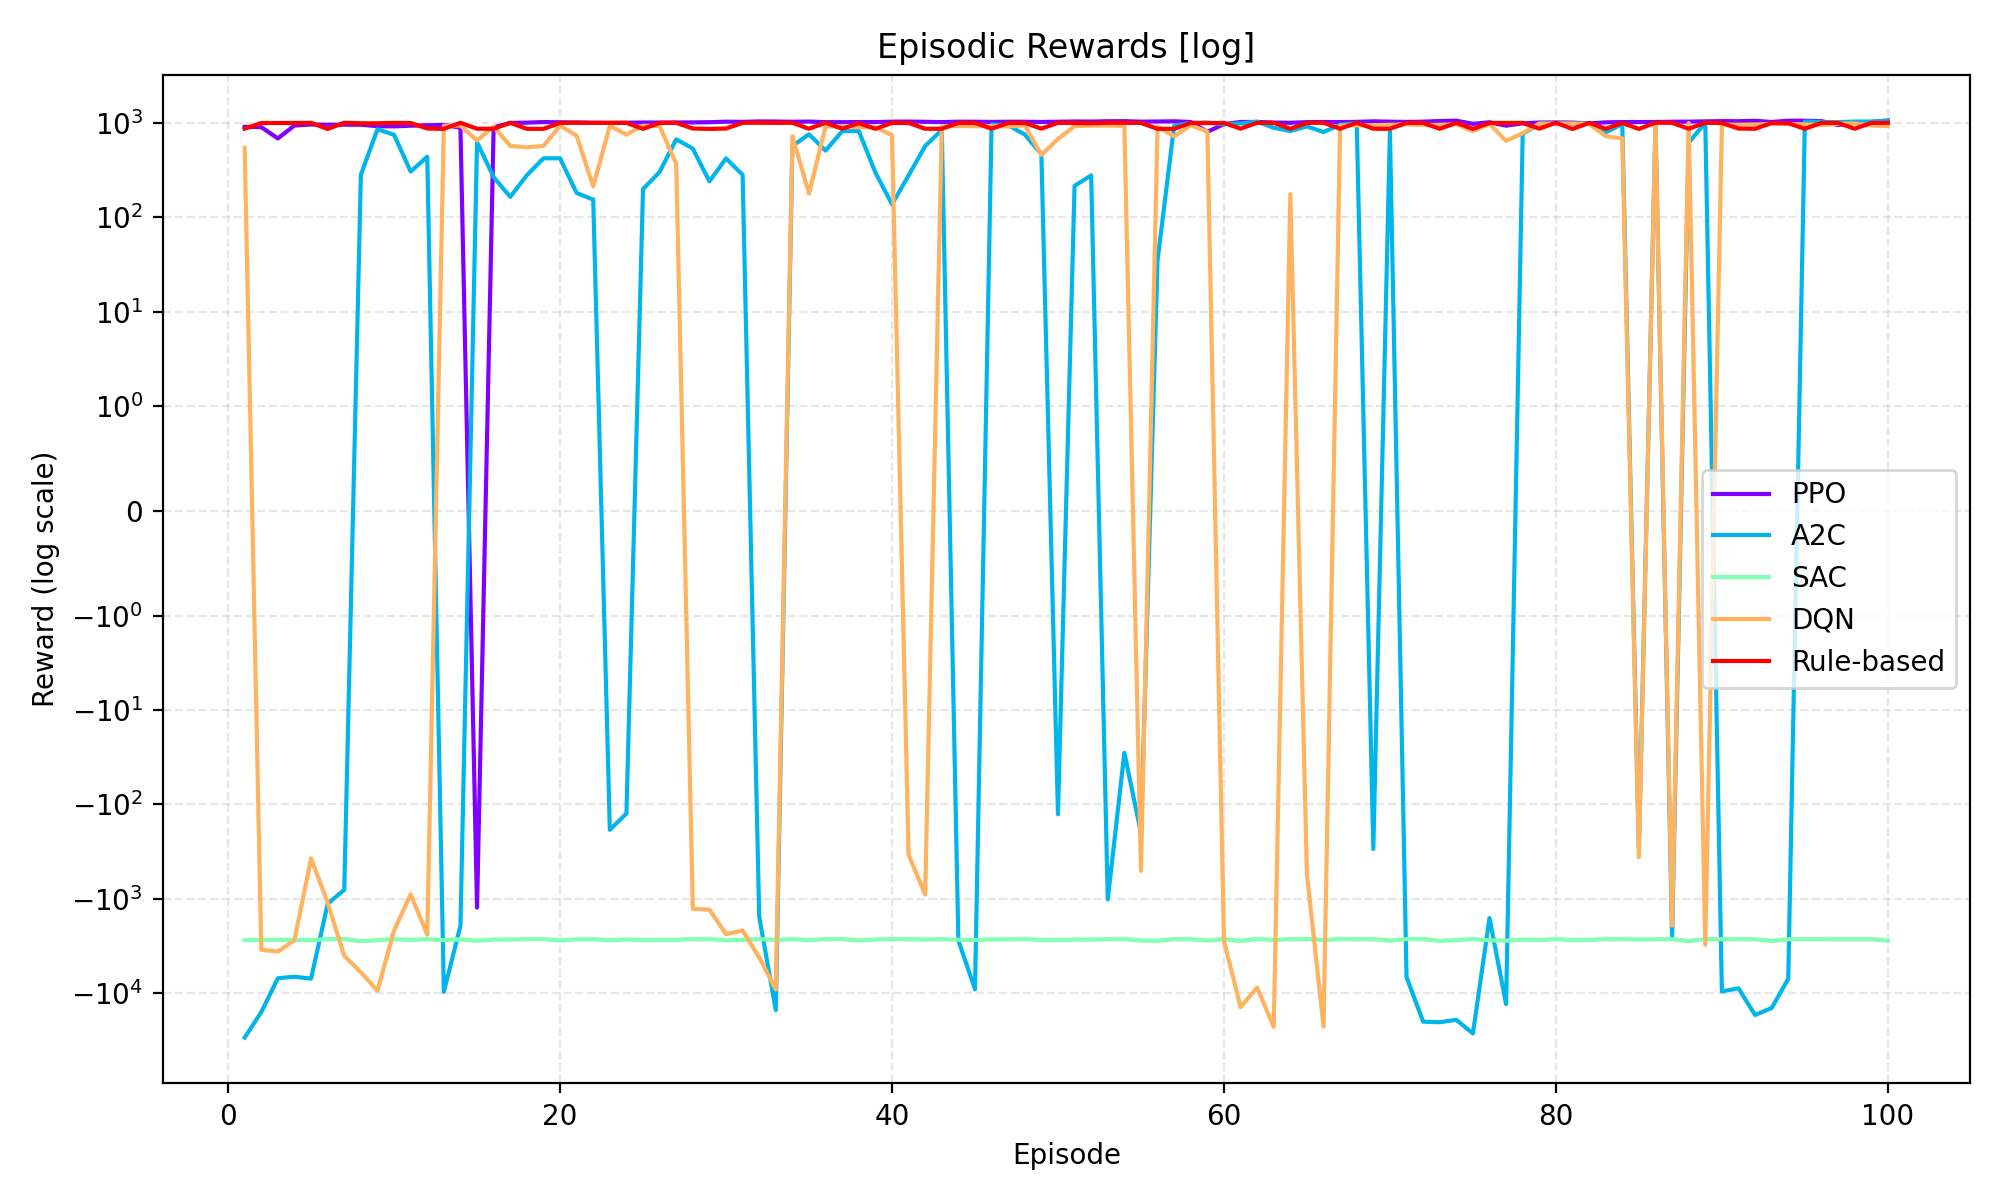
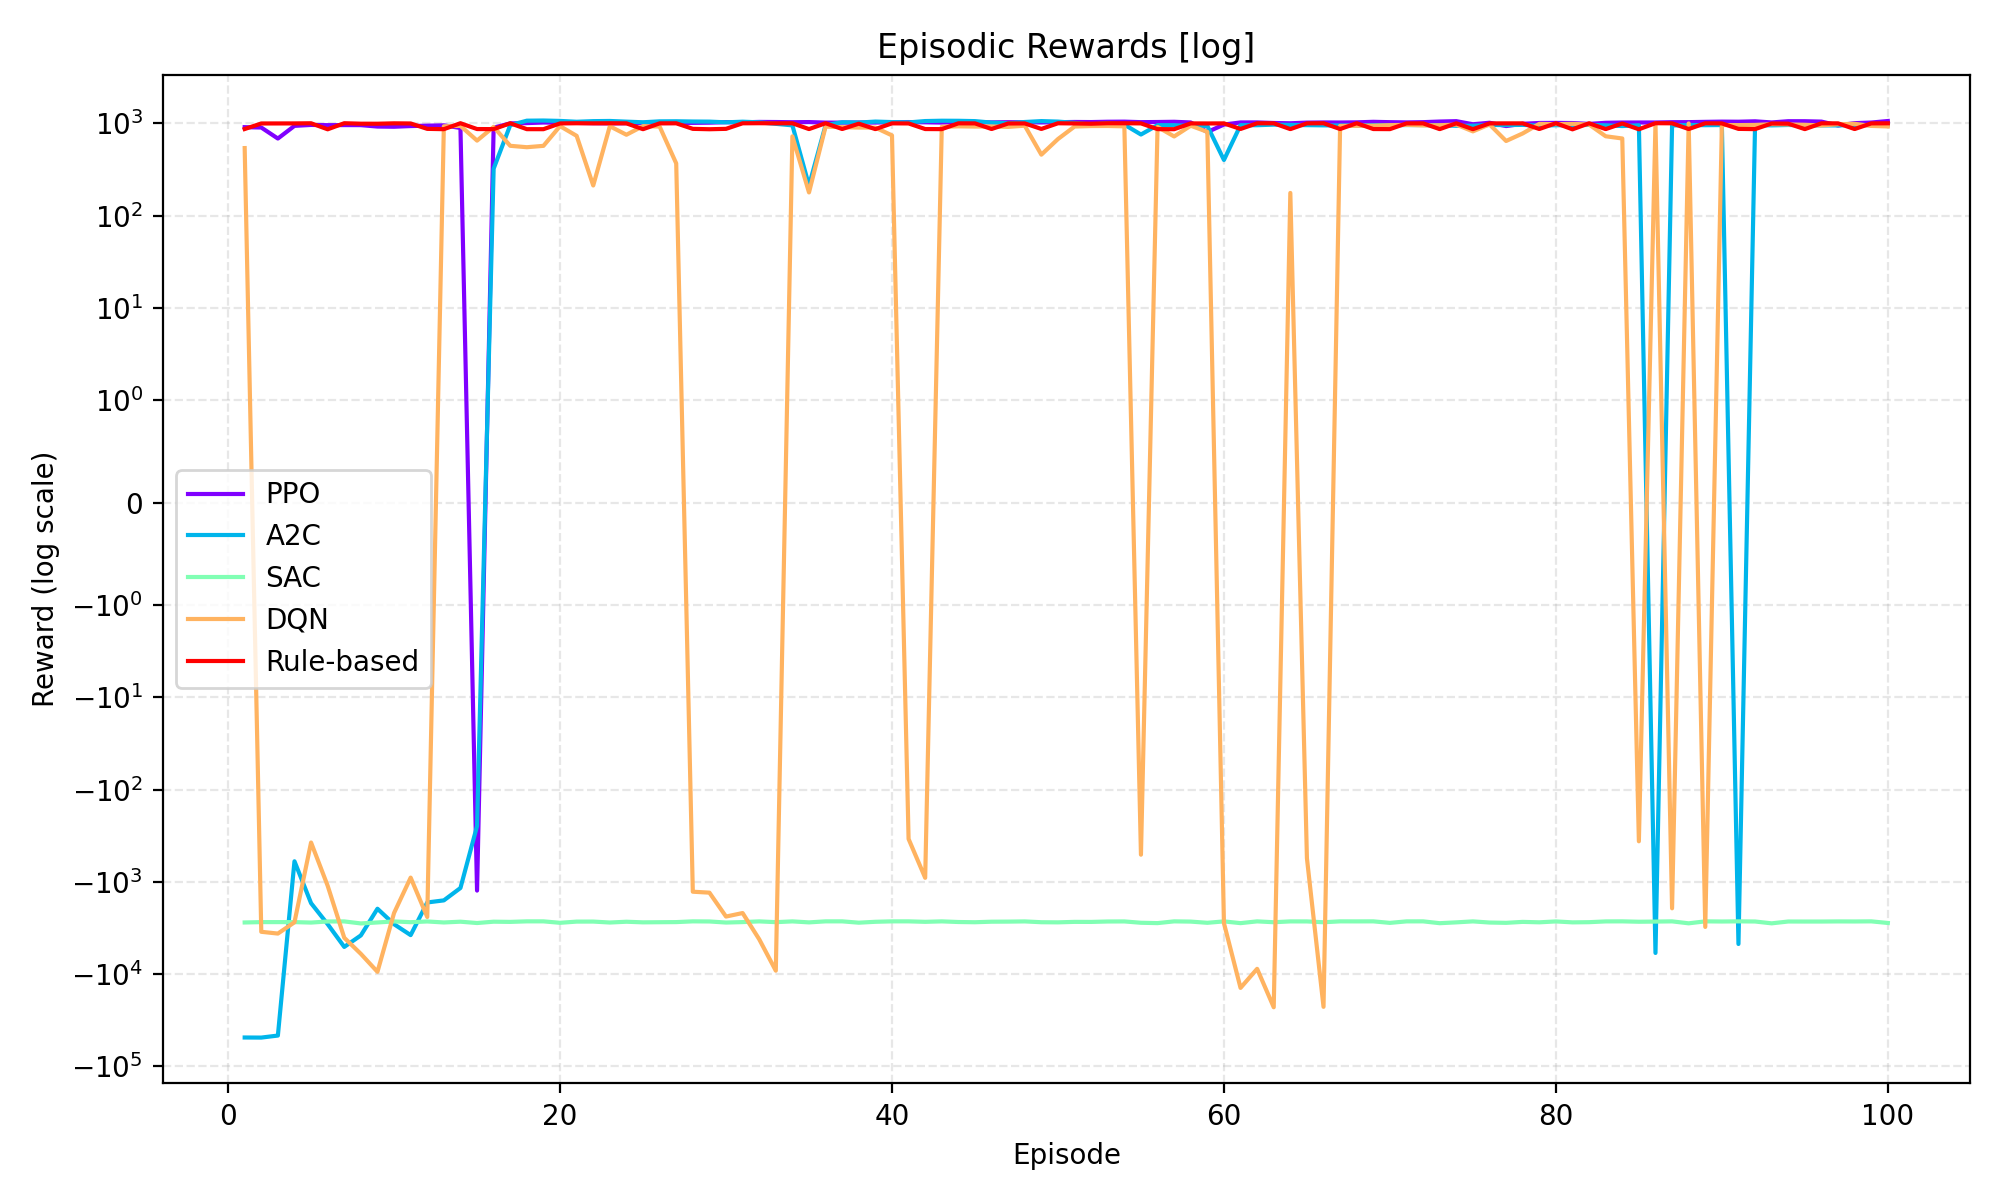
bux fix in utils.py, added comparison of rulebased rewards, fine tuning a2c n_steps

diff --git a/a2c.py b/a2c.py
@@ -49,9 +49,9 @@ class A2CAgent():
             env: gym.Env,
             actor_model: nn.Module = None,
             critic_model: nn.Module = None,
-            learning_rate: float = 1e-4,  #test with 1e-4, 3e-4, 5e-4
+            learning_rate: float = 3e-4,  #test with 1e-4, 3e-4, 5e-4
             gamma: float = 0.99,
-            n_steps: int = 50,
+            n_steps: int = 100,  #test with 20, 150, 100
             entropy_coef: float = 0.01,
             value_loss_coef: float = 0.5,
             max_grad_norm: float = 0.5
@@ -93,14 +93,14 @@ class A2CAgent():
             vec = np.array(obs, dtype=np.float32).flatten()
         return vec
 
-    def choose_action(self, state_vec):
-        """Sample an action from the actor given a flattened state vector."""
-        state = torch.tensor(state_vec, dtype=torch.float32, device=self.device).unsqueeze(0)
-        with torch.no_grad():
-            probs = self.actor_model(state)
-        dist = Categorical(probs)
-        action = dist.sample()
-        return action.item(), dist.log_prob(action), dist.entropy()
+    # def choose_action(self, state_vec):
+    #     """Sample an action from the actor given a flattened state vector."""
+    #     state = torch.tensor(state_vec, dtype=torch.float32, device=self.device).unsqueeze(0)
+    #     with torch.no_grad():
+    #         probs = self.actor_model(state)
+    #     dist = Categorical(probs)
+    #     action = dist.sample()
+    #     return action.item(), dist.log_prob(action), dist.entropy()
 
     def act(self):
         """Run one episode using the current policy."""
@@ -125,6 +125,10 @@ class A2CAgent():
             #     break
         print(f"ACT: Episode rewards breakdown {utils.format_rewards(np.sum(rewards_breakdown, axis=0))}")
         utils.plot_breakdown_cumulative(rewards_breakdown)
+        
+        np.save("./models/a2c/a2c_1_episode_rewards_breakdown.npy", rewards_breakdown)
+        print("Saved results to a2c_1_episode_rewards_breakdown.npy")
+
     def save_models(self, actor_path, critic_path):
         """
         Save actor and critic state_dicts to the given paths. Also saves an
@@ -355,14 +359,14 @@ now = datetime.now()
 version = now.strftime("%Y%m%d_%H%M%S") if USE_DATESTAMP else "v4"  #CHANGE THIS TO DESIRED VERSION STRING
 
 VERSION_NUM = f"{version}"
-episodes = 500  #CHANGE THIS TO DESIRED NUMBER OF EPISODES
+episodes = 100  #CHANGE THIS TO DESIRED NUMBER OF EPISODES
 
 # Define model save paths
-ACTOR_DIR = f"./models/a2c/a2c-v3-e500-actor.pth"
-CRITIC_DIR = f"./models/a2c/a2c-v3-e500-critic.pth"
+# ACTOR_DIR = f"./models/a2c/a2c-v3-e500-actor.pth"
+# CRITIC_DIR = f"./models/a2c/a2c-v3-e500-critic.pth"
 
-# ACTOR_DIR = f"./models/a2c/a2c-{VERSION_NUM}-e{episodes}-actor.pth"
-# CRITIC_DIR = f"./models/a2c/a2c-{VERSION_NUM}-e{episodes}-critic.pth"
+ACTOR_DIR = f"./models/a2c/a2c-{VERSION_NUM}-e{episodes}-actor.pth"
+CRITIC_DIR = f"./models/a2c/a2c-{VERSION_NUM}-e{episodes}-critic.pth"
 
 if __name__ == "__main__":
     utils.init()
@@ -390,4 +394,4 @@ if __name__ == "__main__":
         
         agent.save_models(ACTOR_DIR, CRITIC_DIR)
         #Plot rewards
-        utils.plot_rewards(rewards)
+        utils.plot_rewards(rewards,f"./models/a2c/a2c-{VERSION_NUM}.png")

diff --git a/plot_a2c_comp.py b/plot_a2c_comp.py
@@ -1,13 +1,16 @@
+PARAMETER = "n_steps"
+PARAM_VALUES = [20,150,100]
+
 import numpy as np
 import matplotlib.pyplot as plt
 
 # Load rewards from a2c training
-rewards1 = np.load("models/a2c/a2c-v1-e500-rewards.npy")
-rewards2 = np.load("models/a2c/a2c-v2-e500-rewards.npy")
-rewards3 = np.load("models/a2c/a2c-v3-e500-rewards.npy")
+rewards1 = np.load("models/a2c/a2c-v4-e100-rewards.npy")
+rewards2 = np.load("models/a2c/a2c-v5-e100-rewards.npy")
+rewards3 = np.load("models/a2c/a2c-v6-e100-rewards.npy")
 
 
-# Compute metrics over the entire reward series (no last-N/window logic)
+# Compute metrics over the entire reward series
 def compute_metrics(rewards: np.ndarray) -> dict:
 	r = np.asarray(rewards, dtype=np.float32)
 	n = r.shape[0]
@@ -17,7 +20,6 @@ def compute_metrics(rewards: np.ndarray) -> dict:
 
 	# Coefficient of variation (std / mean) and a simple stability proxy (1/std)
 	cv_overall = float(std_overall / mean_overall) if (mean_overall != 0 and not np.isnan(mean_overall)) else float("nan")
-	stability = float(1.0 / std_overall) if (std_overall != 0 and not np.isnan(std_overall)) else float("nan")
 
 	metrics = {
 		"episodes": int(n),
@@ -27,8 +29,7 @@ def compute_metrics(rewards: np.ndarray) -> dict:
 		"min": float(np.min(r)) if n > 0 else float("nan"),
 		"max": float(np.max(r)) if n > 0 else float("nan"),
 		"cumulative_reward": float(np.sum(r)) if n > 0 else float("nan"),
-		"cv_overall": cv_overall,
-		"stability": stability,
+		"cv_overall": cv_overall
 	}
 
 	return metrics
@@ -42,8 +43,7 @@ def print_metrics(name: str, m: dict):
 		f"Cum.Sum: {m['cumulative_reward']:.3f} | Min/Max: {m['min']:.3f}/{m['max']:.3f}"
 	)
 	print(
-		f"Overall -> Mean: {m['mean_overall']:.3f}, Std: {m['std_overall']:.3f}, CV: {m['cv_overall']:.3f}, "
-		f"Stability (1/std): {m['stability']:.3f}"
+		f"Overall -> Mean: {m['mean_overall']:.3f}, Std: {m['std_overall']:.3f}, CV: {m['cv_overall']:.3f} "
 	)
 	print("\n")
 
@@ -53,21 +53,22 @@ metrics1 = compute_metrics(rewards1)
 metrics2 = compute_metrics(rewards2)
 metrics3 = compute_metrics(rewards3)
 
-print_metrics("learning_rate = 1e-3", metrics1)
-print_metrics("learning_rate = 1e-4", metrics2)
-print_metrics("learning_rate = 3e-4", metrics3)
+print_metrics(f"{PARAMETER} = {PARAM_VALUES[0]}", metrics1)
+print_metrics(f"{PARAMETER} = {PARAM_VALUES[1]}", metrics2)
+print_metrics(f"{PARAMETER} = {PARAM_VALUES[2]}", metrics3)
 
 # Plot raw episode rewards
 plt.figure(figsize=(12, 6))
-plt.plot(np.cumsum(rewards1), label="learning_rate = 1e-3", linewidth=2)
-plt.plot(np.cumsum(rewards2), label="learning_rate = 1e-4", linewidth=2)
-plt.plot(np.cumsum(rewards3), label="learning_rate = 3e-4", linewidth=2)
+plt.plot(np.cumsum(rewards1), label=f"{PARAMETER} = {PARAM_VALUES[0]}", linewidth=2)
+plt.plot(np.cumsum(rewards2), label=f"{PARAMETER} = {PARAM_VALUES[1]}", linewidth=2)
+plt.plot(np.cumsum(rewards3), label=f"{PARAMETER} = {PARAM_VALUES[2]}", linewidth=2)
 
 plt.xlabel("Episode")
 plt.ylabel("Cumulative Reward")
-plt.title("Cumulative Reward Across A2C Learning Rates")
+plt.title(f"Cumulative Reward Across A2C {PARAMETER}")
 plt.legend()
 plt.grid(True)
 plt.tight_layout()
+plt.savefig(f".models/a2c/a2c {PARAMETER} comp.png", dpi=200)
 plt.show()
 plt.close()

diff --git a/plot_all_energy.py b/plot_all_energy.py
@@ -1,0 +1,32 @@
+import numpy as np
+import matplotlib.pyplot as plt
+import utils
+
+    # plt.plot(cumsum[0], 'g-', label = 'Comfort') # Comfort
+    # plt.plot(cumsum[1], 'b-', label = 'Hygiene') # Hygiene
+    # plt.plot(cumsum[2], 'y-', label = 'Energy') # Energy
+    # plt.plot(cumsum[3], 'r-', label = 'Safety') # Safety
+
+
+a2c = np.load("models/a2c/a2c_1_episode_rewards_breakdown.npy")
+rulebased = np.load("models/rulebased_1_episode_rewards_breakdown.npy")
+
+print(a2c.shape, rulebased.shape)
+
+#skip the first row which is all zeros
+a2c_energy = a2c[1:,2].flatten()
+a2c_energy = np.cumsum(a2c_energy)
+
+rulebased_energy = rulebased[1:,2].flatten()
+rulebased_energy = np.cumsum(rulebased_energy)
+
+plt.plot(rulebased_energy, 'r--', label = 'Rule-based') # Energy
+plt.plot(a2c_energy, 'y-', label = 'A2C') # Energy
+# a2c_comfort = a2c[:,0].flatten()
+# plt.plot(a2c_comfort, 'g-', label = 'Comfort') # Comfort
+plt.xlabel("Step")
+plt.ylabel("Energy Reward")
+plt.legend(loc = "best")
+plt.title("Cummulative Energy Reward per Step (1 Episode - 1344 Steps)")
+plt.grid()
+plt.show()

diff --git a/rulebased.py b/rulebased.py
@@ -50,10 +50,12 @@ for e in range(EPISODES):
 
 # Utility function to print a breakdown of the rewards.
 reward_breakdown = np.divide(reward_breakdown, EPISODES)
+print(f"Final Reward Breakdown after {EPISODES} episodes:")
 print(utils.format_rewards(reward_breakdown))
 # print("Reward list:", reward_list)
-utils.plot_rewards(reward_list)
+utils.plot_rewards(reward_list, "models/rulebased_rewards.png")
 np.save("rulebased_rewards.npy", np.array(reward_list))
 
 # print("Reward breakdown per episode:", rewards_breakdown_per_episode)
 utils.plot_breakdown_cumulative(np.array(rewards_breakdown_per_episode))
+np.save("rulebased_1_episode_rewards_breakdown.npy", np.array(rewards_breakdown_per_episode))

diff --git a/plot_all.py b/plot_all.py
@@ -7,7 +7,7 @@ import numpy as np
 import matplotlib.pyplot as plt
 
 rewards_ppo = np.load("models/ppo/ppo_rewards.npy")
-rewards_a2c = np.load("models/a2c/a2c-v3-e500-rewards.npy")
+rewards_a2c = np.load("models/a2c/a2c-v4-e100-rewards.npy")
 rewards_sac = [
     -2759.0, -2734.2, -2734.0, -2734.9, -2765.8, -2691.0, -2687.2, -2825.9, -2758.2, -2687.6,
     -2739.4, -2691.1, -2758.0, -2705.7, -2797.3, -2705.5, -2719.4, -2683.0, -2683.0, -2781.9,

diff --git a/utils.py b/utils.py
@@ -50,5 +50,6 @@ def plot_rewards(rewards_per_episode, path):
     plt.ylabel("Total Reward")
     plt.title("Total Reward per Episode")
     plt.grid()
-    plt.savefig(path)
+    plt.savefig(path, dpi=200)
+    plt.show()
     plt.close()

diff --git a/a2c copy.py b/a2c copy.py
@@ -394,4 +394,4 @@ if __name__ == "__main__":
         
         agent.save_models(ACTOR_DIR, CRITIC_DIR)
         #Plot rewards
-        utils.plot_rewards(rewards)
+        utils.plot_rewards(rewards,f"plots/a2c-{VERSION_NUM}.png")
